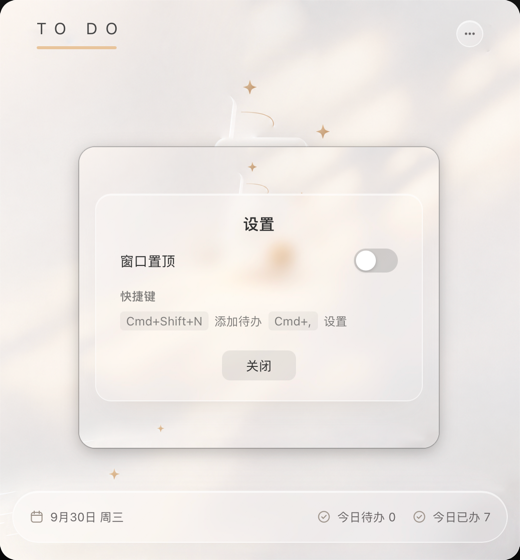
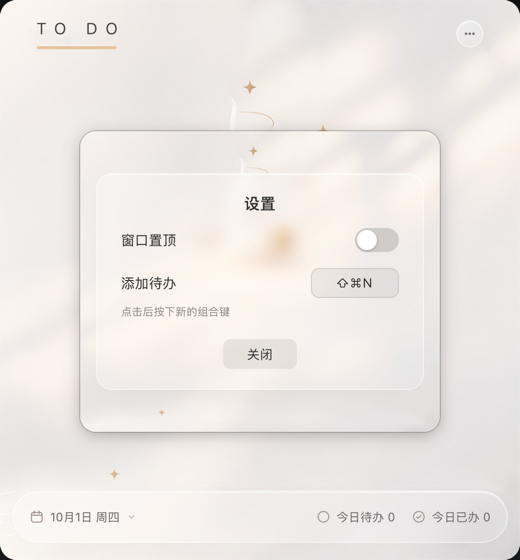
Add calendar screenshot and refresh README feature list
- Document the calendar/history view and clickable footer stats
- Mention configurable add-todo and window shortcuts with Dock restore
- Update settings and add-todo descriptions

diff --git a/README.md b/README.md
@@ -11,14 +11,22 @@
 - 顶栏：品牌标识「TO DO」与金色装饰线，右侧为磨砂玻璃的更多按钮。
 - 列表：每条待办为一张玻璃拟态卡片，包含圆形勾选框、待办文字与删除按钮。
 - 空状态：无待办时展示插画与提示「按 Cmd + Shift + N 添加」。
-- 底栏：展示日期（月日 + 星期）、今日待办数、今日已办数。
+- 底栏：展示日期（月日 + 星期）、今日待办数、今日已办数；点击日期打开日历。
 
 ### 添加待办
 
 ![添加待办](./ui/add-todo.png)
 
-- 通过快捷键呼出的弹窗，支持多行输入。
+- 通过全局快捷键（默认 `Cmd + Shift + N`）呼出的弹窗，支持多行输入。
 - `Cmd/Ctrl + Enter` 提交，`Esc` 取消，暖金色确认按钮。
+
+### 日历与历史已办
+
+![日历](./ui/calendar.png)
+
+- 点击底栏的日期弹出日历，有已办记录的日期带金色圆点标记，未来日期不可选。
+- 选择过去的日期后，以只读方式展示当天已办事项，并通过「返回今天待办」按钮回到今日待办。
+- 点击底栏的「今日已办」，同样可查看今日已完成事项（只读）。
 
 ### 设置
 
@@ -32,10 +40,11 @@
 - **待办管理**：添加、勾选完成、删除待办。
 - **玻璃拟态视觉**：暖色磨砂玻璃卡片，金色点缀，圆润通透。
 - **完成动效**：卡片沿曲线飞入「今日已办」并回弹，列表平滑重排。
-- **底栏统计**：日期（月日 + 星期）、今日待办数、今日已办数。
+- **底栏统计**：日期（月日 + 星期）、今日待办数、今日已办数；日期与「今日已办」均可点击。
+- **日历回顾**：点击日期打开日历，有已办的日期显示圆点；选择过去日期以只读方式查看当天已办，一键返回今日待办。
 - **添加待办**：多行输入，`Cmd/Ctrl + Enter` 提交，`Esc` 取消。
-- **设置**：窗口置顶开关与快捷键说明。
+- **设置**：窗口置顶开关与自定义快捷键。
 - **自定义全局快捷键**：默认 `Cmd + Shift + N` 添加待办，可在设置中录制修改。
-- **窗口快捷键**：`Cmd + W` 隐藏、`Cmd + M` 最小化（仅窗口聚焦时生效）。
+- **窗口快捷键**：`Cmd + W` 隐藏（点击 Dock 图标恢复）、`Cmd + M` 最小化（仅窗口聚焦时生效）。
 - **自动保存**：待办与设置自动持久化，重启不丢失。
 - **贴心细节**：无边框透明圆角窗口、动效降级、防误选文本。
